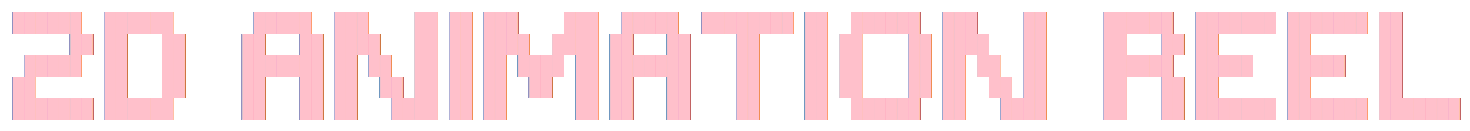
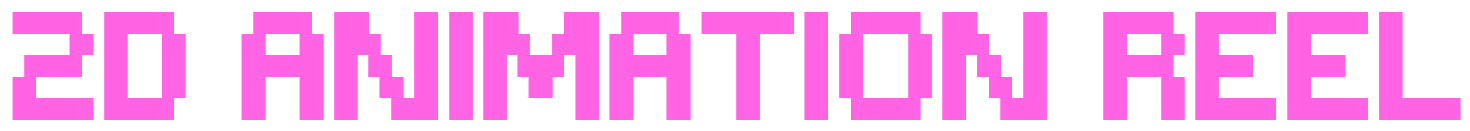
color change

diff --git a/banner.html b/banner.html
@@ -19,7 +19,7 @@
 	  ╚═══╝  ╚═╝ ╚═════╝╚══════╝╚═╝  ╚═══╝   ╚═╝   ╚══════╝      ╚═══╝    ╚═══╝   ╚═════╝ ╚═╝  ╚═╝
 	</pre> -->
 <br>
-<b>vicente.delvalle@gmail.com | 2D artist</b>
+<b>vicente.delvalle@gmail.com | 2D animator</b>
 <br>
 ***********************************************************
 

diff --git a/main.css b/main.css
@@ -21,7 +21,7 @@ b{
         linear-gradient(45deg,transparent 48%,#bfdece 48%,#bfdece 52%,transparent 52%),
         linear-gradient(135deg,transparent 48%,#bfdece 48%,#bfdece 52%,transparent 52%)*/;        
         font-family: courier;
-        color:pink;
+        color:#ff94fa;
     }
 
     /*body{
